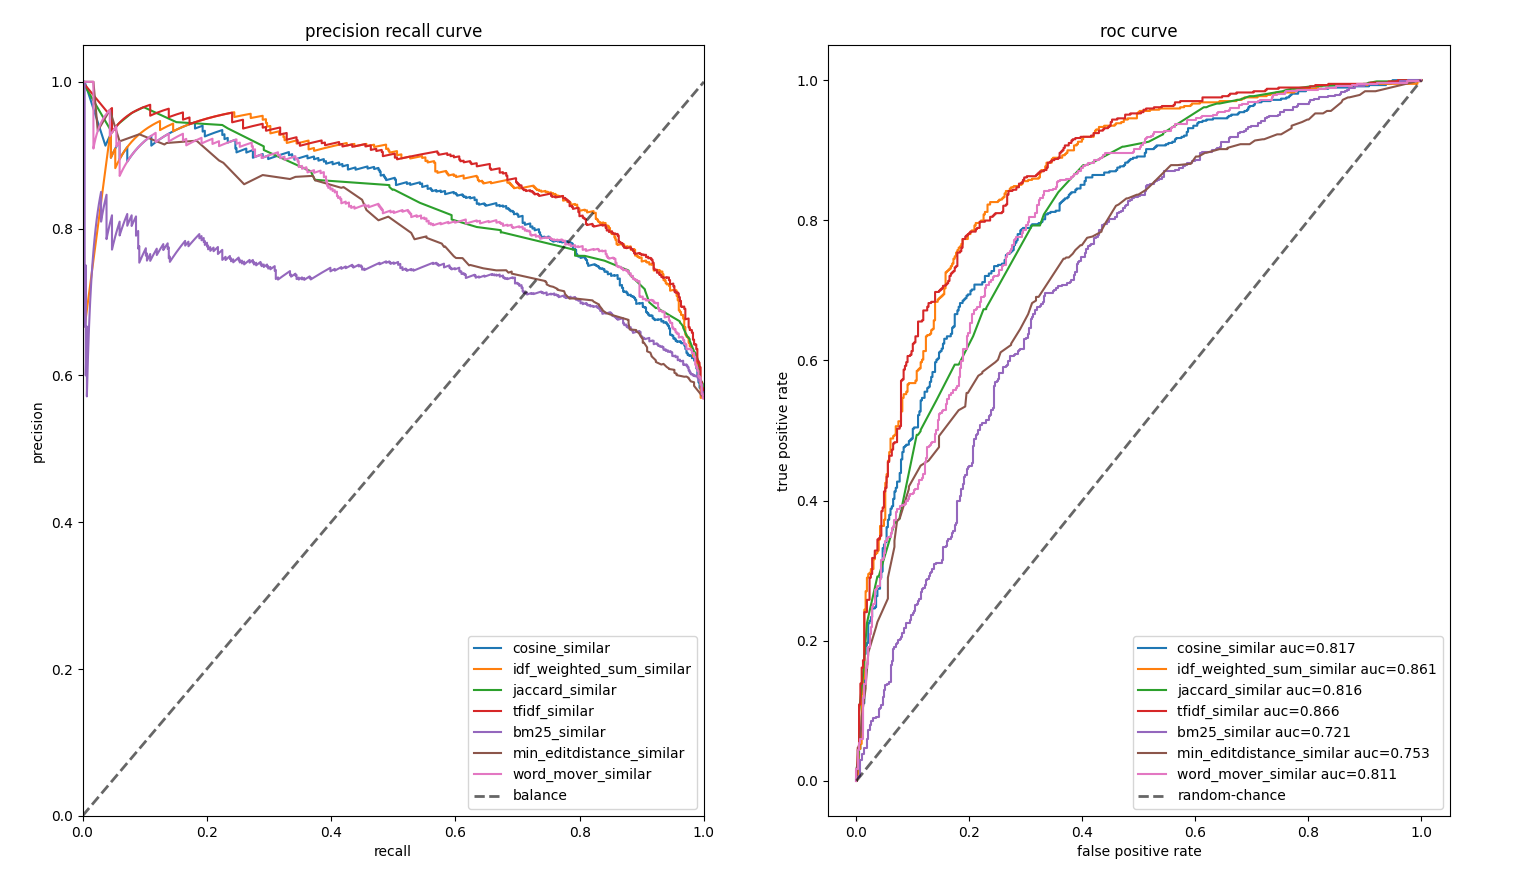
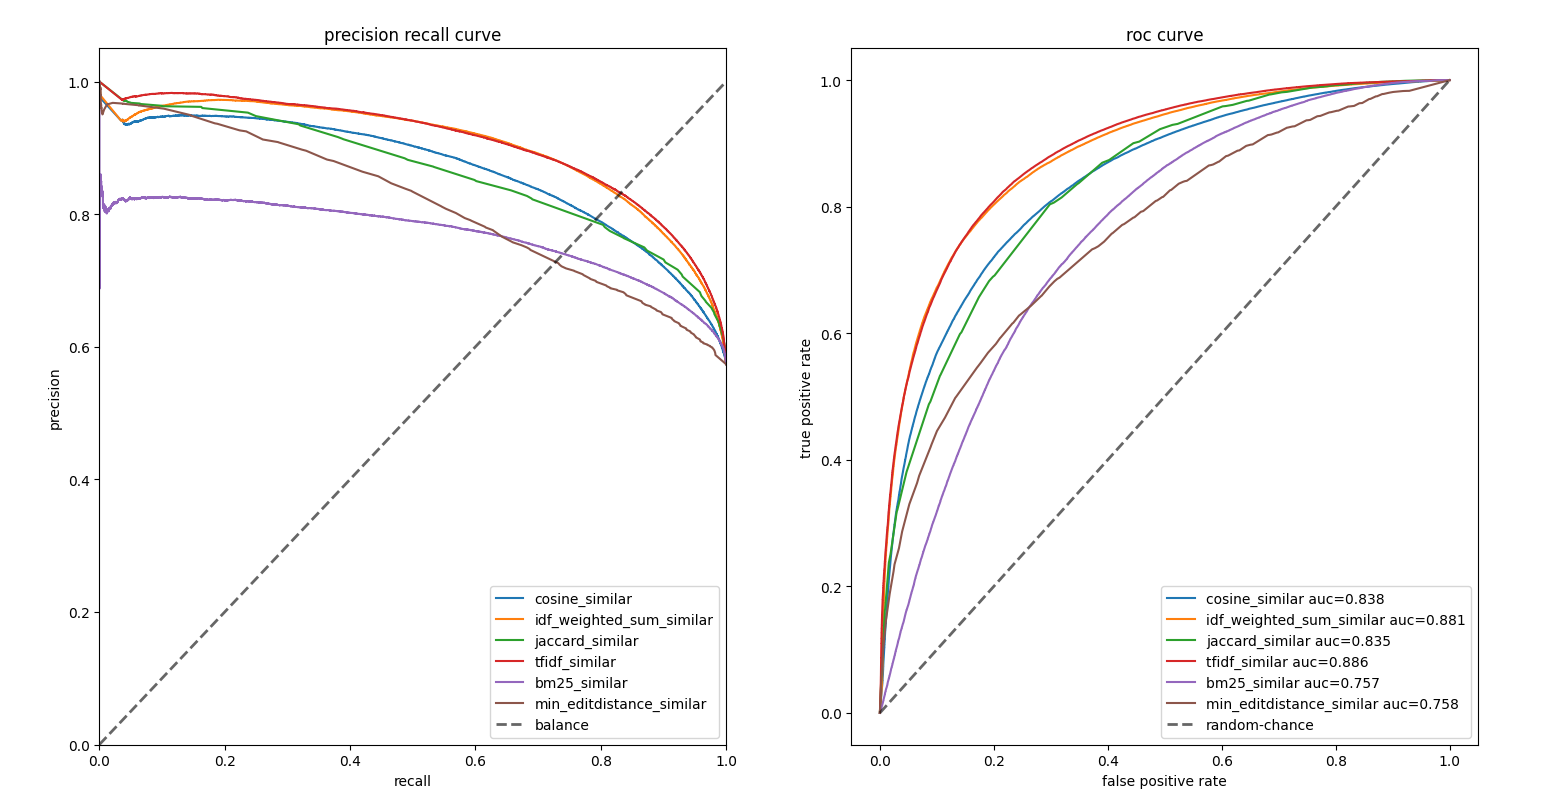
Update code

diff --git a/text_similarity.py b/text_similarity.py
@@ -26,6 +26,10 @@ def cosine(v1, v2):
         return 0
     return s
 
+def normalize(x):
+    x = np.array(x)
+    return (x - np.min(x)) / (np.max(x) - np.min(x))
+
 def cosine_similar(text1, text2):
     words1 = jieba.lcut(text1)
     words2 = jieba.lcut(text2)
@@ -57,6 +61,7 @@ def tfidf_similar(text1, text2):
     return cosine(v1, v2)
 
 def bm25_similar(text1, text2, s_avg=10, k1=2.0, b=0.75):
+    """s_avg是句子的平均长度，根据语料统计。k1,b是调节因子，根据经验调整。"""
     bm25 = 0.0
     sl = len(text2)
     for w in jieba.lcut(text1):
@@ -124,7 +129,7 @@ if __name__ == "__main__":
 
     # funcs.append(word_mover_similar)
     # 注意word_mover_similar计算太慢了，这里默认不加入
-
+    do_normalize = True
     X1, X2, y, categoricals = dataset.load_lcqmc()
     ys_true = []
     ys_pred = []
@@ -132,10 +137,11 @@ if __name__ == "__main__":
     for func in funcs:
         labels.append(func.__name__)
         y_pred = [func(x1, x2) for x1, x2 in zip(X1, X2)]
+        if do_normalize:
+            y_pred = normalize(y_pred)
         ys_true.append(np.array(y))
         ys_pred.append(np.array(y_pred))
     plt.subplot(121)
     plot_pcs(ys_true, ys_pred, labels, show=False)
     plt.subplot(122)
     plot_rocs(ys_true, ys_pred, labels, show=True)
-

diff --git a/dataset.py b/dataset.py
@@ -1,14 +1,14 @@
 import random
 
 _LCQMC = "/home/zhiwen/workspace/dataset/LCQMC/totals.txt"
-def load_lcqmc(file=_LCQMC):
+def load_lcqmc(file=_LCQMC, nums=None):
     with open(file, encoding="utf-8") as fd:
         lines = fd.readlines()
     random.shuffle(lines)
     X1 = []
     X2 = []
     y = []
-    for line in lines[:]:
+    for line in lines[:nums]:
         x1, x2, label = line.strip().split("\t")
         if len(x1) * len(x2) == 0:
             continue
@@ -17,3 +17,9 @@ def load_lcqmc(file=_LCQMC):
         y.append(int(label))
     categoricals = {"匹配":1, "不匹配":0}
     return X1, X2, y, categoricals
+
+if __name__ == "__main__":
+    X1, X2, *_ = load_lcqmc()
+    sl = [len(i) for i in (X1 + X2)]
+    slavg = sum(sl) / len(sl)
+    print(slavg)

diff --git a/README.md b/README.md
@@ -5,16 +5,20 @@
 这里对比一下它们的差异。
 
 
-在LCQMC数据集上的PR曲线和ROC曲线（1）：
+在LCQMC数据集上的PR曲线和ROC曲线（测试1）：
 
 ![](asset/ts1.png)
 
-在LCQMC数据集上的PR曲线和ROC曲线（2）：
+在LCQMC数据集上的PR曲线和ROC曲线（测试2）：
 
-![](asset/ts1.1.png)
+![](asset/ts2.png)
+
+在LCQMC数据集上的PR曲线和ROC曲线（测试3）：
+
+![](asset/ts3.png)
 
 由于wasserstein distance计算太慢了，以下对比只用了1000个样本：
 
-![](asset/ts2.png)
+![](asset/ts4.png)
 
 可以说，这些经典的方法还是有不错的效果。
